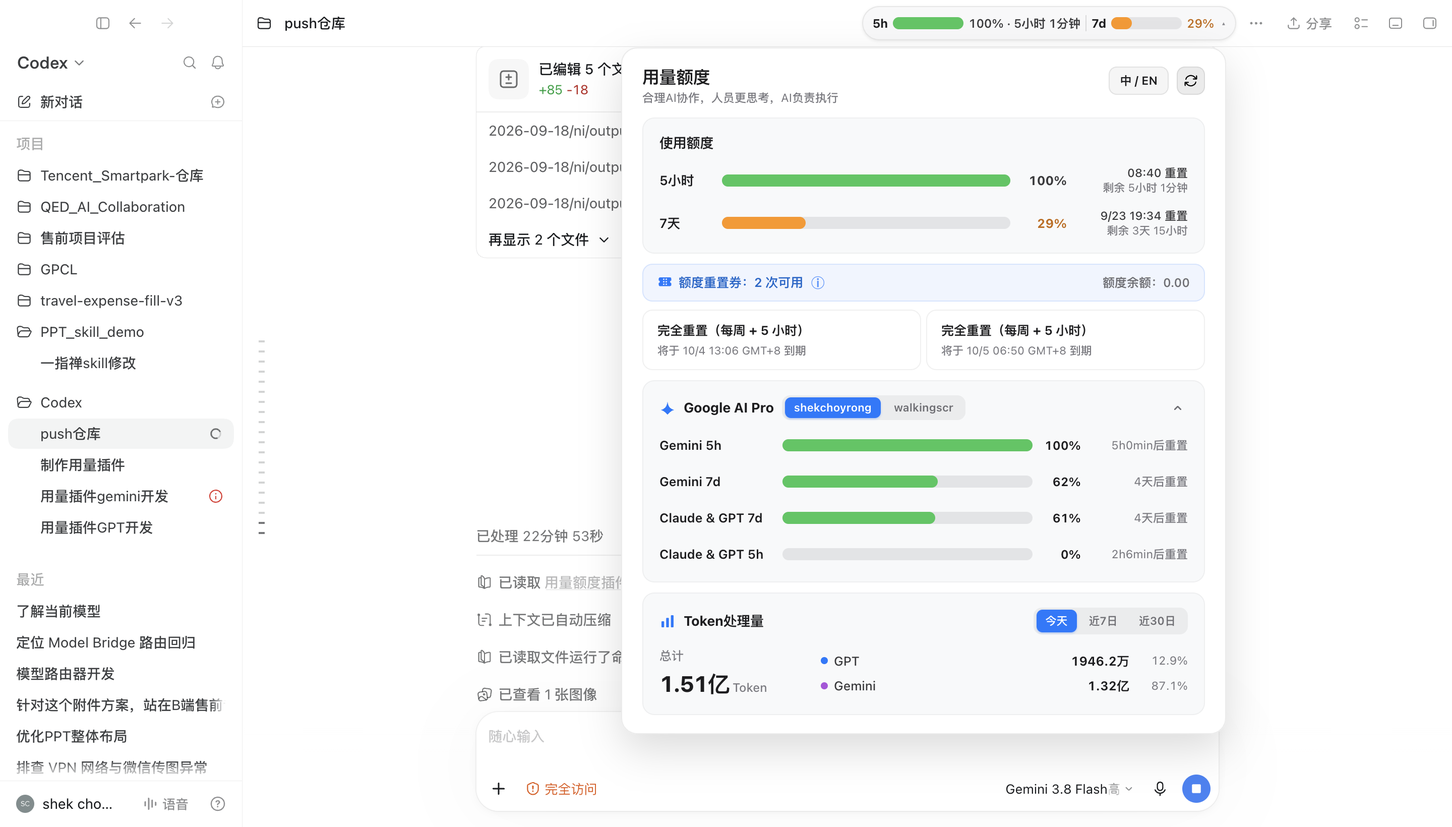
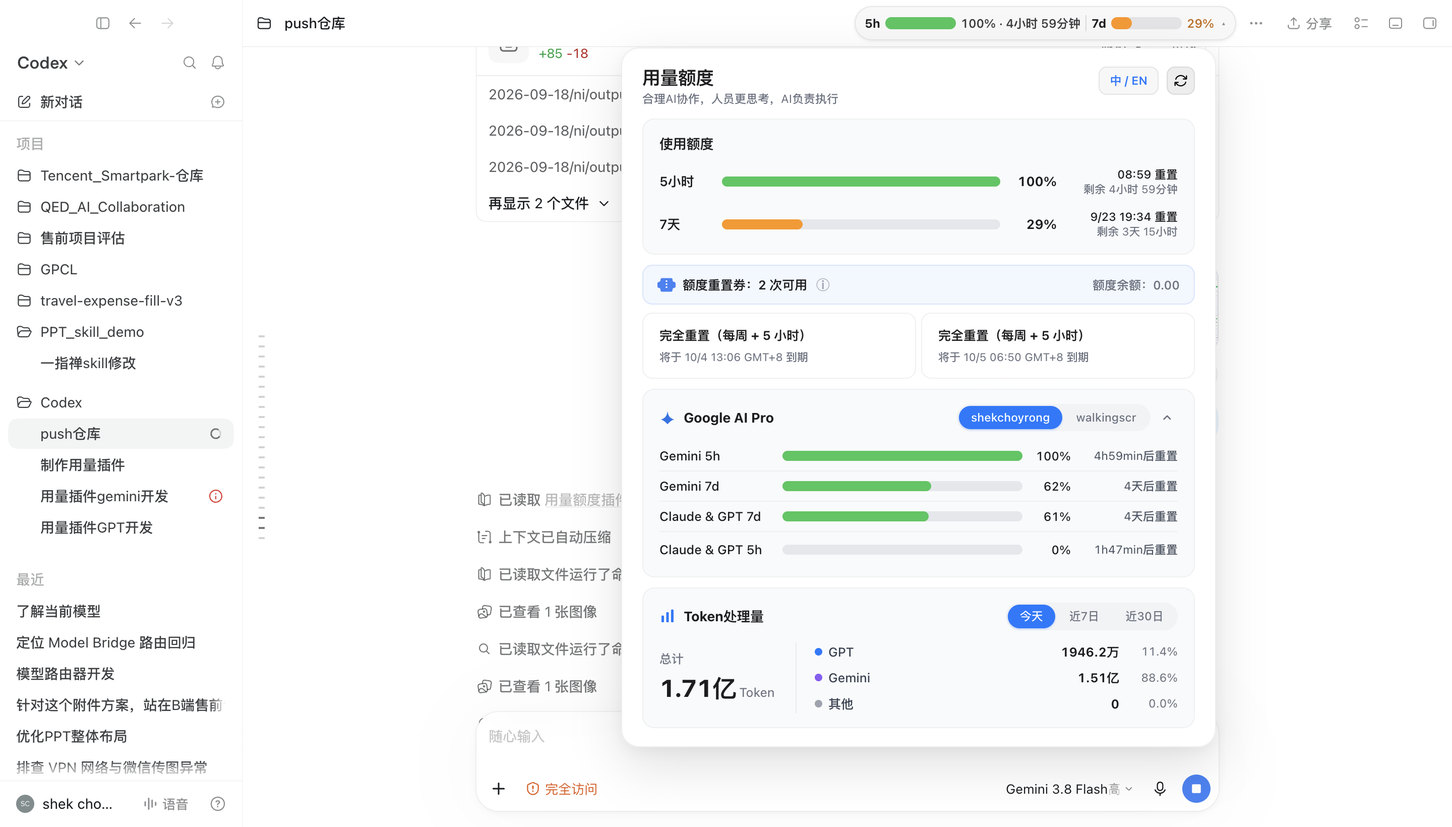
fix(ui): polish pixel-perfect alignment and visual fidelity to match design mockup

diff --git a/src/injected.js b/src/injected.js
@@ -6,7 +6,7 @@
 (() => {
   'use strict';
 
-  const RUNTIME_VERSION = '3.0.1';
+  const RUNTIME_VERSION = '3.1.0';
   const HOST_TAG = 'codex-usage-header-host';
   const POPOVER_CLASS = 'codex-usage-popover-v24';
   const POPOVER_ID = 'codex-usage-details-v24';
@@ -623,15 +623,15 @@
         + '</div>';
     }
 
-    const chevronSvg = googleCollapsed
-      ? '<svg width="12" height="12" viewBox="0 0 24 24" fill="none" stroke="currentColor" stroke-width="2.5" stroke-linecap="round" stroke-linejoin="round"><polyline points="6 9 12 15 18 9"></polyline></svg>'
-      : '<svg width="12" height="12" viewBox="0 0 24 24" fill="none" stroke="currentColor" stroke-width="2.5" stroke-linecap="round" stroke-linejoin="round"><polyline points="18 15 12 9 6 15"></polyline></svg>';
+    const chevronSvg = '<svg class="chevron-icon" width="13" height="13" viewBox="0 0 24 24" fill="none" stroke="currentColor" stroke-width="2.4" stroke-linecap="round" stroke-linejoin="round">'
+      + (googleCollapsed ? '<polyline points="6 9 12 15 18 9"></polyline>' : '<polyline points="18 15 12 9 6 15"></polyline>')
+      + '</svg>';
 
     let geminiRowsHtml = '';
     if (!googleCollapsed) {
       if (activeRows && activeRows.length > 0) {
         geminiRowsHtml = '<div class="quota-extension-rows">'
-          + activeRows.map(row => {
+          + activeRows.map((row, idx) => {
             const color = getQuotaColor(row.remainingPercent);
             const percentText = (row.remainingPercent !== null && row.remainingPercent !== undefined && !row.unavailable)
               ? row.remainingPercent + '%'
@@ -639,7 +639,7 @@
             const countdownStr = isZh ? (row.countdown?.zh || '') : (row.countdown?.en || '');
             const resetInfo = row.unavailable ? esc(t('noData')) : esc(countdownStr || t('imminent'));
 
-            return '<div class="quota-extension-row">'
+            return '<div class="quota-extension-row' + (idx === activeRows.length - 1 ? ' is-last' : '') + '">'
               + '<span class="quota-extension-label">' + esc(row.label) + '</span>'
               + '<span class="quota-extension-track"><span class="quota-extension-fill" style="width:' + (row.unavailable ? 0 : (row.remainingPercent || 0)) + '%;background:' + color + '"></span></span>'
               + '<span class="quota-extension-percent">' + esc(percentText) + '</span>'
@@ -652,16 +652,18 @@
       }
     }
 
-    const sparkleSvg = '<svg class="section-icon" width="16" height="16" viewBox="0 0 24 24" fill="#007AFF"><path d="M12 2C12 2 12.5 8.5 15.5 11.5C18.5 14.5 22 15 22 15C22 15 18.5 15.5 15.5 18.5C12.5 21.5 12 22 12 22C12 22 11.5 21.5 8.5 18.5C5.5 15.5 2 15 2 15C2 15 5.5 14.5 8.5 11.5C11.5 8.5 12 2 12 2Z"/></svg>';
+    const sparkleSvg = '<svg class="section-icon" width="16" height="16" viewBox="0 0 24 24" fill="#1A73E8"><path d="M12 2C12 2 12.5 8.5 15.5 11.5C18.5 14.5 22 15 22 15C22 15 18.5 15.5 15.5 18.5C12.5 21.5 12 22 12 22C12 22 11.5 21.5 8.5 18.5C5.5 15.5 2 15 2 15C2 15 5.5 14.5 8.5 11.5C11.5 8.5 12 2 12 2Z"/></svg>';
 
     const geminiSection = '<div class="card-section quota-extension-section">'
       + '<div class="quota-extension-header' + (!googleCollapsed && activeRows?.length ? ' has-rows' : '') + '">'
       + '<div class="quota-extension-title-wrap">'
       + sparkleSvg
       + '<span class="quota-extension-title">' + esc(t('geminiTitle')) + '</span>'
-      + accountTabsHtml
       + '</div>'
+      + '<div class="quota-extension-header-actions">'
+      + accountTabsHtml
       + '<button type="button" class="quota-extension-toggle" aria-label="Toggle Google AI Pro">' + chevronSvg + '</button>'
+      + '</div>'
       + '</div>'
       + geminiRowsHtml
       + '</div>';
@@ -683,10 +685,25 @@
         tokenContent = '<div class="quota-extension-note">' + esc(t('noData')) + '</div>';
       } else {
         const totalFormatted = formatExtendedTokenCount(rangeData.total, isZh);
-        const itemRows = (rangeData.items || []).map(item => {
+        const rawItems = rangeData.items || [];
+        const hasGpt = rawItems.some(i => i.key === 'gpt');
+        const hasGemini = rawItems.some(i => i.key === 'gemini');
+        const hasOther = rawItems.some(i => i.key === 'other');
+
+        const allItems = [...rawItems];
+        if (!hasGpt) allItems.unshift({ key: 'gpt', label: 'GPT', tokens: 0, percent: '0.0%' });
+        if (!hasGemini) {
+          const gptIdx = allItems.findIndex(i => i.key === 'gpt');
+          allItems.splice(gptIdx + 1, 0, { key: 'gemini', label: 'Gemini', tokens: 0, percent: '0.0%' });
+        }
+        if (!hasOther) {
+          allItems.push({ key: 'other', label: isZh ? '其他' : 'Other', tokens: 0, percent: '0.0%' });
+        }
+
+        const itemRows = allItems.map(item => {
           const label = item.key === 'other' ? t('other') : item.label;
           const formatted = formatExtendedTokenCount(item.tokens, isZh);
-          const dotColor = item.key === 'gpt' ? '#007AFF' : item.key === 'gemini' ? '#AF52DE' : '#8E8E93';
+          const dotColor = item.key === 'gpt' ? '#007AFF' : item.key === 'gemini' ? '#8B5CF6' : '#9CA3AF';
           return '<div class="token-model-row">'
             + '<span class="token-model-label"><span class="token-model-dot" style="background:' + dotColor + '"></span>' + esc(label) + '</span>'
             + '<span class="token-model-amount">' + esc(formatted) + '</span>'
@@ -704,7 +721,7 @@
       }
     }
 
-    const chartSvg = '<svg class="section-icon" width="16" height="16" viewBox="0 0 24 24" fill="#007AFF"><rect x="3" y="12" width="4" height="9" rx="1"></rect><rect x="10" y="7" width="4" height="14" rx="1"></rect><rect x="17" y="3" width="4" height="18" rx="1"></rect></svg>';
+    const chartSvg = '<svg class="section-icon" width="16" height="16" viewBox="0 0 24 24" fill="#007AFF"><rect x="3" y="11" width="3.8" height="10" rx="1.2"></rect><rect x="10.1" y="6" width="3.8" height="15" rx="1.2"></rect><rect x="17.2" y="2" width="3.8" height="19" rx="1.2"></rect></svg>';
 
     const tokenSection = '<div class="card-section quota-extension-section">'
       + '<div class="quota-extension-header has-rows">'
@@ -731,8 +748,6 @@
     const ready = Boolean(s && (!showFiveHours || p));
     const pColor = getQuotaColor(p?.remainingPercent);
     const sColor = getQuotaColor(s?.remainingPercent);
-    const pColorText = getValueColor(p?.remainingPercent, dark);
-    const sColorText = getValueColor(s?.remainingPercent, dark);
     const message = usageState.status === 'error' ? t('unavailable') : t('syncing');
 
     const details = usageState.resetCreditDetails.length
@@ -757,14 +772,14 @@
       ? '<div class="row">'
         + '<span class="label">' + esc(t('fiveHours')) + '</span>'
         + '<span class="track"><span class="fill" style="width:' + (p?.remainingPercent || 0) + '%;background:' + pColor + '"></span></span>'
-        + '<span class="percent" style="color:' + pColorText + '">' + esc(pPercent) + '</span>'
+        + '<span class="percent">' + esc(pPercent) + '</span>'
         + '<span class="value popover-primary-value"><span class="info-time">' + esc(pInfoTime) + '</span><span class="info-remain">' + esc(pInfoRemain) + '</span></span>'
         + '</div>'
       : '';
     const secondaryRow = '<div class="row">'
       + '<span class="label">' + esc(t('sevenDays')) + '</span>'
       + '<span class="track"><span class="fill" style="width:' + (s?.remainingPercent || 0) + '%;background:' + sColor + '"></span></span>'
-      + '<span class="percent" style="color:' + sColorText + '">' + esc(sPercent) + '</span>'
+      + '<span class="percent">' + esc(sPercent) + '</span>'
       + '<span class="value popover-secondary-value"><span class="info-time">' + esc(sInfoTime) + '</span><span class="info-remain">' + esc(sInfoRemain) + '</span></span>'
       + '</div>';
 
@@ -775,11 +790,13 @@
         + '</div>'
       : '<div class="card-section usage-section"><div class="unavailable">' + esc(message) + '</div></div>';
 
+    const ticketSvg = '<svg class="credit-icon" width="18" height="15" viewBox="0 0 24 20" fill="#3B82F6"><path d="M22 6C20.9 6 20 5.1 20 4V3C20 1.9 19.1 1 18 1H6C4.9 1 4 1.9 4 3V4C4 5.1 3.1 6 2 6C0.9 6 0 6.9 0 8V12C0 13.1 0.9 14 2 14C3.1 14 4 14.9 4 16V17C4 18.1 4.9 19 6 19H18C19.1 19 20 18.1 20 17V16C20 14.9 20.9 14 22 14C23.1 14 24 13.1 24 12V8C24 6.9 23.1 6 22 6Z"/><path d="M12 4V16" stroke="white" stroke-width="2" stroke-dasharray="2 2"/></svg>';
+
     const voucherBanner = '<div class="meta-row">'
       + '<span class="meta-actions">'
       + '<span class="credits-copy">'
-      + '<svg class="credit-icon" width="15" height="15" viewBox="0 0 24 24" fill="#007AFF"><path d="M20 4H4c-1.1 0-2 .9-2 2v3c1.1 0 2 .9 2 2s-.9 2-2 2v3c0 1.1.9 2 2 2h16c1.1 0 2-.9 2-2v-3c-1.1 0-2-.9-2-2s.9-2 2-2V6c0-1.1-.9-2-2-2zm-9 12H9v-2h2v2zm0-4H9v-2h2v2zm0-4H9V6h2v2zm4 8h-2v-2h2v2zm0-4h-2v-2h2v2zm0-4h-2V6h2v2z"/></svg>'
-      + '<span>' + esc(t('resetCredits') + '：' + (usageState.resetCredits ?? '—') + ' ' + t('available')) + '</span>'
+      + ticketSvg
+      + '<span class="credits-text">' + esc(t('resetCredits') + '：' + (usageState.resetCredits ?? '—') + ' ' + t('available')) + '</span>'
       + '<span class="info-bubble" title="' + esc(t('resetDetails')) + '">ⓘ</span>'
       + '</span>'
       + '<span class="balance">' + esc(t('balance') + '：' + usageState.creditBalance.displayValue) + '</span>'
@@ -796,22 +813,22 @@
 
     const css = [
       '*{box-sizing:border-box}',
-      '.popover-shell{display:block;width:600px;max-width:calc(100vw - 24px);max-height:calc(100vh - 40px);overflow-y:auto;font-family:-apple-system,BlinkMacSystemFont,"SF Pro Text","Segoe UI",sans-serif;color:' + (dark ? '#F5F5F7' : '#1D1D1F') + ';background:' + (dark ? 'rgba(32,32,35,.98)' : 'rgba(255,255,255,.98)') + ';border:1px solid ' + (dark ? 'rgba(255,255,255,.12)' : 'rgba(0,0,0,.08)') + ';box-shadow:0 16px 40px rgba(0,0,0,.14);backdrop-filter:blur(24px);-webkit-backdrop-filter:blur(24px);border-radius:16px;padding:18px 20px}',
+      '.popover-shell{display:block;width:590px;max-width:calc(100vw - 24px);max-height:calc(100vh - 40px);overflow-y:auto;font-family:-apple-system,BlinkMacSystemFont,"SF Pro Text","Segoe UI",sans-serif;color:' + (dark ? '#F5F5F7' : '#1D1D1F') + ';background:' + (dark ? 'rgba(32,32,35,.98)' : 'rgba(255,255,255,.98)') + ';border:1px solid ' + (dark ? 'rgba(255,255,255,.12)' : 'rgba(0,0,0,.07)') + ';box-shadow:0 18px 48px rgba(0,0,0,.12),0 4px 12px rgba(0,0,0,.04);backdrop-filter:blur(24px);-webkit-backdrop-filter:blur(24px);border-radius:18px;padding:18px 20px}',
       '.popover-header{display:flex;align-items:flex-start;justify-content:space-between;gap:16px;margin-bottom:12px}',
       '.popover-title-group{display:flex;flex-direction:column;gap:3px}',
-      '.popover-title{font-size:17px;font-weight:750;letter-spacing:-.2px;line-height:1.2}',
-      '.popover-subtitle{font-size:11.5px;color:' + (dark ? '#A1A1A6' : '#7A7A80') + ';line-height:1.3;white-space:nowrap}',
+      '.popover-title{font-size:18px;font-weight:750;letter-spacing:-.3px;line-height:1.2}',
+      '.popover-subtitle{font-size:11.5px;color:' + (dark ? '#A1A1A6' : '#6B7280') + ';line-height:1.3;white-space:nowrap}',
       '.popover-actions{display:flex;align-items:center;gap:8px}',
-      '.language-toggle,.card-refresh{height:28px;border-radius:8px;border:1px solid ' + (dark ? 'rgba(255,255,255,.14)' : 'rgba(0,0,0,.08)') + ';background:' + (dark ? 'rgba(255,255,255,.08)' : 'rgba(0,0,0,.04)') + ';color:' + (dark ? '#F5F5F7' : '#1D1D1F') + ';cursor:pointer;font:600 11.5px -apple-system,BlinkMacSystemFont,"SF Pro Text",sans-serif;transition:all .15s ease}',
-      '.language-toggle{padding:0 10px}',
+      '.language-toggle,.card-refresh{height:28px;border-radius:8px;border:1px solid ' + (dark ? 'rgba(255,255,255,.14)' : 'rgba(0,0,0,.08)') + ';background:' + (dark ? 'rgba(255,255,255,.08)' : 'rgba(0,0,0,.03)') + ';color:' + (dark ? '#F5F5F7' : '#1D1D1F') + ';cursor:pointer;font:600 11.5px -apple-system,BlinkMacSystemFont,"SF Pro Text",sans-serif;transition:all .15s ease}',
+      '.language-toggle{padding:0 10px;color:' + (dark ? '#70B4FF' : '#007AFF') + '}',
       '.card-refresh{width:28px;padding:0;display:grid;place-items:center}',
       '.card-refresh .icon,.card-refresh svg{width:15px;height:15px}',
       '.card-refresh.state-loading .icon,.card-refresh.state-loading svg{animation:quota-refresh-spin .72s linear infinite}',
-      '.language-toggle:hover,.card-refresh:hover{background:' + (dark ? 'rgba(255,255,255,.14)' : 'rgba(0,0,0,.08)') + '}',
+      '.language-toggle:hover,.card-refresh:hover{background:' + (dark ? 'rgba(255,255,255,.14)' : 'rgba(0,0,0,.07)') + '}',
       '@keyframes quota-refresh-spin{to{transform:rotate(360deg)}}',
       '.refresh-error-note{font-size:11.5px;color:#FF3B30;margin-top:4px}',
 
-      '.card-section{background:' + (dark ? 'rgba(255,255,255,.04)' : '#F8F9FA') + ';border:1px solid ' + (dark ? 'rgba(255,255,255,.07)' : 'rgba(0,0,0,.04)') + ';border-radius:12px;padding:14px 16px;margin-top:10px}',
+      '.card-section{background:' + (dark ? 'rgba(255,255,255,.04)' : '#F9FAFB') + ';border:1px solid ' + (dark ? 'rgba(255,255,255,.07)' : 'rgba(0,0,0,.04)') + ';border-radius:12px;padding:14px 16px;margin-top:10px}',
       '.card-section-header{display:flex;align-items:center;justify-content:space-between;margin-bottom:12px}',
       '.card-section-title{font-size:13.5px;font-weight:700;letter-spacing:-.1px;color:' + (dark ? '#F5F5F7' : '#1D1D1F') + '}',
 
@@ -819,65 +836,67 @@
       '.row{display:grid;grid-template-columns:52px minmax(140px,1fr) 46px minmax(110px,auto);align-items:center;gap:10px;min-height:28px}',
       '@media(max-width:520px){.row{grid-template-columns:52px 122px minmax(150px,1fr);gap:10px}}',
       '.row .label{font-size:13px;font-weight:600;text-align:left;white-space:nowrap;width:52px;color:' + (dark ? '#F5F5F7' : '#1D1D1F') + '}',
-      '.row .track{height:12px;border-radius:999px;overflow:hidden;background:' + CONFIG.colors.track + '}',
+      '.row .track{height:10px;border-radius:999px;overflow:hidden;background:' + (dark ? 'rgba(120,120,128,.24)' : '#E5E7EB') + '}',
       '.row .fill{display:block;height:100%;border-radius:999px;transition:width .2s ease,background .2s ease}',
-      '.row .percent{font-size:12.5px;font-weight:700;text-align:right;font-variant-numeric:tabular-nums;white-space:nowrap}',
+      '.row .percent{font-size:13px;font-weight:650;text-align:right;font-variant-numeric:tabular-nums;white-space:nowrap;color:' + (dark ? '#F5F5F7' : '#1D1D1F') + '}',
       '.row .value{display:flex;flex-direction:column;align-items:flex-end;justify-content:center;text-align:right;line-height:1.35;white-space:nowrap;min-width:110px}',
-      '.row .value .info-time{font-size:11.5px;font-weight:500;color:' + (dark ? '#E5E5EA' : '#3A3A3C') + '}',
-      '.row .value .info-remain{font-size:11px;color:' + (dark ? '#A1A1A6' : '#7A7A80') + '}',
+      '.row .value .info-time{font-size:11.5px;font-weight:500;color:' + (dark ? '#E5E5EA' : '#1D1D1F') + '}',
+      '.row .value .info-remain{font-size:11px;color:' + (dark ? '#A1A1A6' : '#6B7280') + '}',
 
       '.reset-voucher-section{margin-top:10px}',
-      '.meta-row{display:flex;align-items:center;width:100%;background:' + (dark ? 'rgba(10,132,255,.14)' : 'rgba(0,122,255,.07)') + ';border:1px solid ' + (dark ? 'rgba(10,132,255,.24)' : 'rgba(0,122,255,.14)') + ';border-radius:10px;padding:8px 14px}',
+      '.meta-row{display:flex;align-items:center;width:100%;background:' + (dark ? 'rgba(10,132,255,.14)' : 'rgba(239,246,255,.85)') + ';border:1px solid ' + (dark ? 'rgba(10,132,255,.24)' : 'rgba(59,130,246,.15)') + ';border-radius:10px;padding:9px 14px}',
       '.meta-actions{display:flex;align-items:center;justify-content:space-between;gap:18px;width:100%;white-space:nowrap;flex-wrap:nowrap}',
-      '.credits-copy{display:inline-flex;align-items:center;gap:6px;white-space:nowrap;font-weight:600;font-size:12.5px;color:' + (dark ? '#70B4FF' : '#0066CC') + '}',
+      '.credits-copy{display:inline-flex;align-items:center;gap:7px;white-space:nowrap;font-weight:600;font-size:12.5px;color:' + (dark ? '#F5F5F7' : '#1D1D1F') + '}',
       '.credits-copy .credit-icon{display:inline-flex;align-items:center;justify-content:center;flex-shrink:0}',
-      '.credits-copy .info-bubble{cursor:default;font-size:13px;color:' + (dark ? '#70B4FF' : '#007AFF') + ';opacity:.8;margin-left:2px}',
-      '.balance{color:' + (dark ? '#A1A1A6' : '#6E6E73') + ';font-size:12px;font-weight:550;white-space:nowrap}',
+      '.credits-copy .info-bubble{cursor:default;font-size:13px;color:' + (dark ? '#A1A1A6' : '#9CA3AF') + ';margin-left:2px}',
+      '.balance{color:' + (dark ? '#A1A1A6' : '#6B7280') + ';font-size:12px;font-weight:550;white-space:nowrap}',
       '.credit-details{display:grid;grid-template-columns:repeat(2,minmax(0,1fr));gap:5px;margin-top:8px;padding-top:0;border-top-width:0px}',
-      '.credit-detail{display:flex;flex-direction:column;justify-content:center;align-items:flex-start;padding:10px 14px;font-size:12px;border:1px solid ' + (dark ? 'rgba(255,255,255,.10)' : 'rgba(0,0,0,.06)') + ';border-radius:10px;background:' + (dark ? 'rgba(255,255,255,.04)' : '#FFFFFF') + ';transition:all .15s ease}',
+      '.credit-detail{display:flex;flex-direction:column;justify-content:center;align-items:flex-start;padding:12px 16px;font-size:12px;border:1px solid ' + (dark ? 'rgba(255,255,255,.10)' : 'rgba(0,0,0,.06)') + ';border-radius:10px;background:' + (dark ? 'rgba(255,255,255,.04)' : '#FFFFFF') + ';transition:all .15s ease}',
       '.credit-detail:hover{border-color:' + (dark ? 'rgba(10,132,255,.4)' : 'rgba(0,122,255,.28)') + ';background:' + (dark ? 'rgba(10,132,255,.08)' : 'rgba(0,122,255,.02)') + '}',
       '.credit-detail strong{font-size:12.5px;font-weight:650;white-space:nowrap;color:' + (dark ? '#F5F5F7' : '#1D1D1F') + '}',
-      '.credit-detail span{font-size:11px;color:' + (dark ? '#A1A1A6' : '#7A7A80') + ';white-space:nowrap;margin-top:3px}',
+      '.credit-detail span{font-size:11px;color:' + (dark ? '#A1A1A6' : '#6B7280') + ';white-space:nowrap;margin-top:4px}',
 
       '.quota-extension{}',
-      '.quota-extension-section{background:' + (dark ? 'rgba(255,255,255,.04)' : '#F8F9FA') + ';border:1px solid ' + (dark ? 'rgba(255,255,255,.07)' : 'rgba(0,0,0,.04)') + ';border-radius:12px;padding:14px 16px;margin-top:10px}',
+      '.quota-extension-section{background:' + (dark ? 'rgba(255,255,255,.04)' : '#F9FAFB') + ';border:1px solid ' + (dark ? 'rgba(255,255,255,.07)' : 'rgba(0,0,0,.04)') + ';border-radius:12px;padding:14px 16px;margin-top:10px}',
       '.quota-extension-header{display:flex;align-items:center;justify-content:space-between}',
-      '.quota-extension-header.has-rows{margin-bottom:12px}',
+      '.quota-extension-header.has-rows{margin-bottom:10px}',
       '.quota-extension-title-wrap{display:flex;align-items:center;gap:8px}',
       '.quota-extension-title{font-size:13.5px;font-weight:700;letter-spacing:-.1px;color:' + (dark ? '#F5F5F7' : '#1D1D1F') + '}',
-      '.quota-extension-account-tabs{display:flex;gap:4px;background:' + (dark ? 'rgba(255,255,255,.08)' : 'rgba(0,0,0,.05)') + ';padding:2px 3px;border-radius:8px}',
-      '.quota-extension-account-tab{border:0;background:transparent;color:' + (dark ? '#A1A1A6' : '#6E6E73') + ';border-radius:6px;padding:2px 9px;font-size:11px;font-weight:600;cursor:pointer;transition:all .15s ease;white-space:nowrap}',
+      '.quota-extension-header-actions{display:flex;align-items:center;gap:6px}',
+      '.quota-extension-account-tabs{display:inline-flex;align-items:center;gap:2px;background:' + (dark ? 'rgba(255,255,255,.08)' : '#F1F3F5') + ';padding:2px;border-radius:999px}',
+      '.quota-extension-account-tab{border:0;background:transparent;color:' + (dark ? '#A1A1A6' : '#6B7280') + ';border-radius:999px;padding:3px 12px;font-size:11.5px;font-weight:500;cursor:pointer;transition:all .15s ease;white-space:nowrap}',
       '.quota-extension-account-tab:hover{color:' + (dark ? '#FFFFFF' : '#1D1D1F') + '}',
-      '.quota-extension-account-tab.is-active{background:#007AFF;color:#FFFFFF;box-shadow:0 1px 2px rgba(0,122,255,.3)}',
-      '.quota-extension-toggle{border:0;background:transparent;color:' + (dark ? '#A1A1A6' : '#6E6E73') + ';padding:4px;border-radius:6px;cursor:pointer;display:inline-flex;align-items:center;justify-content:center;transition:all .15s ease}',
+      '.quota-extension-account-tab.is-active{background:#007AFF;color:#FFFFFF;box-shadow:0 1px 2px rgba(0,122,255,.25)}',
+      '.quota-extension-toggle{border:0;background:transparent;color:' + (dark ? '#A1A1A6' : '#6B7280') + ';padding:4px;border-radius:6px;cursor:pointer;display:inline-flex;align-items:center;justify-content:center;transition:all .15s ease}',
       '.quota-extension-toggle:hover{color:' + (dark ? '#FFFFFF' : '#1D1D1F') + ';background:' + (dark ? 'rgba(255,255,255,.10)' : 'rgba(0,0,0,.05)') + '}',
-      '.quota-extension-rows{display:flex;flex-direction:column;gap:10px}',
-      '.quota-extension-row{display:grid;grid-template-columns:112px minmax(100px,1fr) 38px 96px;align-items:center;gap:10px;min-height:26px}',
-      '.quota-extension-label{font-size:12.5px;font-weight:600;text-align:left;white-space:nowrap;color:' + (dark ? '#F5F5F7' : '#1D1D1F') + '}',
-      '.quota-extension-track{height:12px;min-width:100px;border-radius:999px;overflow:hidden;background:' + CONFIG.colors.track + '}',
+      '.quota-extension-rows{display:flex;flex-direction:column}',
+      '.quota-extension-row{display:grid;grid-template-columns:112px minmax(100px,1fr) 38px 96px;align-items:center;gap:10px;min-height:30px;border-bottom:1px solid ' + (dark ? 'rgba(255,255,255,.05)' : 'rgba(0,0,0,.04)') + ';padding:5px 0}',
+      '.quota-extension-row.is-last{border-bottom:0;padding-bottom:0}',
+      '.quota-extension-label{font-size:12.5px;font-weight:500;text-align:left;white-space:nowrap;color:' + (dark ? '#F5F5F7' : '#1D1D1F') + '}',
+      '.quota-extension-track{height:10px;min-width:100px;border-radius:999px;overflow:hidden;background:' + (dark ? 'rgba(120,120,128,.24)' : '#E5E7EB') + '}',
       '.quota-extension-fill{display:block;height:100%;border-radius:999px;transition:width .2s ease,background .2s ease}',
-      '.quota-extension-percent{font-size:12px;font-weight:650;text-align:right;font-variant-numeric:tabular-nums;white-space:nowrap;color:' + (dark ? '#F5F5F7' : '#1D1D1F') + '}',
-      '.quota-extension-value{font-size:11.5px;color:' + (dark ? '#A1A1A6' : '#7A7A80') + ';white-space:nowrap;font-variant-numeric:tabular-nums;text-align:right}',
+      '.quota-extension-percent{font-size:12px;font-weight:500;text-align:right;font-variant-numeric:tabular-nums;white-space:nowrap;color:' + (dark ? '#F5F5F7' : '#1D1D1F') + '}',
+      '.quota-extension-value{font-size:11.5px;color:' + (dark ? '#A1A1A6' : '#4B5563') + ';white-space:nowrap;font-variant-numeric:tabular-nums;text-align:right}',
 
-      '.quota-extension-range-tabs{display:flex;gap:3px;background:' + (dark ? 'rgba(255,255,255,.08)' : 'rgba(0,0,0,.05)') + ';padding:2px 3px;border-radius:8px}',
-      '.quota-extension-range-tab{border:0;background:transparent;color:' + (dark ? '#A1A1A6' : '#6E6E73') + ';border-radius:6px;padding:3px 9px;font-size:11px;font-weight:600;cursor:pointer;transition:all .15s ease}',
+      '.quota-extension-range-tabs{display:inline-flex;align-items:center;gap:2px;background:' + (dark ? 'rgba(255,255,255,.08)' : '#F1F3F5') + ';padding:2px;border-radius:999px}',
+      '.quota-extension-range-tab{border:0;background:transparent;color:' + (dark ? '#A1A1A6' : '#6B7280') + ';border-radius:999px;padding:3px 12px;font-size:11.5px;font-weight:500;cursor:pointer;transition:all .15s ease}',
       '.quota-extension-range-tab:hover{color:' + (dark ? '#FFFFFF' : '#1D1D1F') + '}',
-      '.quota-extension-range-tab.is-active{background:#007AFF;color:#FFFFFF;box-shadow:0 1px 2px rgba(0,122,255,.3)}',
+      '.quota-extension-range-tab.is-active{background:#007AFF;color:#FFFFFF;box-shadow:0 1px 2px rgba(0,122,255,.25)}',
 
-      '.quota-extension-token-table{display:grid;grid-template-columns:140px 1fr;align-items:center;gap:20px;margin-top:10px}',
-      '.token-summary-col{display:flex;flex-direction:column;justify-content:center}',
-      '.token-summary-label{font-size:12px;color:' + (dark ? '#A1A1A6' : '#7A7A80') + ';font-weight:500;margin-bottom:2px}',
+      '.quota-extension-token-table{display:grid;grid-template-columns:135px 1fr;align-items:center;gap:0;margin-top:12px}',
+      '.token-summary-col{display:flex;flex-direction:column;justify-content:center;padding-right:16px}',
+      '.token-summary-label{font-size:12px;color:' + (dark ? '#A1A1A6' : '#6B7280') + ';font-weight:500;margin-bottom:2px}',
       '.token-summary-val{display:flex;align-items:baseline;gap:3px}',
-      '.token-summary-number{font-size:22px;font-weight:750;letter-spacing:-.4px;font-variant-numeric:tabular-nums;color:' + (dark ? '#F5F5F7' : '#1D1D1F') + '}',
-      '.token-summary-unit{font-size:12px;color:' + (dark ? '#A1A1A6' : '#7A7A80') + ';font-weight:500}',
-      '.token-models-col{display:flex;flex-direction:column;gap:6px}',
+      '.token-summary-number{font-size:24px;font-weight:750;letter-spacing:-.4px;font-variant-numeric:tabular-nums;color:' + (dark ? '#F5F5F7' : '#1D1D1F') + '}',
+      '.token-summary-unit{font-size:12.5px;color:' + (dark ? '#A1A1A6' : '#6B7280') + ';font-weight:450}',
+      '.token-models-col{display:flex;flex-direction:column;gap:7px;border-left:1px solid ' + (dark ? 'rgba(255,255,255,.07)' : 'rgba(0,0,0,.06)') + ';padding-left:18px}',
       '.token-model-row{display:grid;grid-template-columns:72px minmax(80px,1fr) 48px;align-items:center;gap:10px;font-size:12.5px}',
-      '.token-model-label{display:flex;align-items:center;gap:6px;font-weight:500;color:' + (dark ? '#E5E5EA' : '#3A3A3C') + ';white-space:nowrap}',
-      '.token-model-dot{width:7px;height:7px;border-radius:50%;flex-shrink:0}',
+      '.token-model-label{display:flex;align-items:center;gap:6px;font-weight:500;color:' + (dark ? '#E5E5EA' : '#374151') + ';white-space:nowrap}',
+      '.token-model-dot{width:7.5px;height:7.5px;border-radius:50%;flex-shrink:0}',
       '.token-model-amount{text-align:right;font-weight:650;font-variant-numeric:tabular-nums;color:' + (dark ? '#F5F5F7' : '#1D1D1F') + ';white-space:nowrap}',
-      '.token-model-pct{text-align:right;color:' + (dark ? '#A1A1A6' : '#7A7A80') + ';font-size:11.5px;font-variant-numeric:tabular-nums;white-space:nowrap}',
-      '.quota-extension-note{font-size:12px;color:' + (dark ? '#A1A1A6' : '#6E6E73') + ';padding:6px 0}',
-      '.unavailable{font-size:12.5px;color:' + (dark ? '#A1A1A6' : '#6E6E73') + ';padding:8px 0}',
+      '.token-model-pct{text-align:right;color:' + (dark ? '#A1A1A6' : '#6B7280') + ';font-size:11.5px;font-variant-numeric:tabular-nums;white-space:nowrap}',
+      '.quota-extension-note{font-size:12px;color:' + (dark ? '#A1A1A6' : '#6B7280') + ';padding:6px 0}',
+      '.unavailable{font-size:12.5px;color:' + (dark ? '#A1A1A6' : '#6B7280') + ';padding:8px 0}',
     ].join('');
 
     return '<style>' + css + '</style>'
